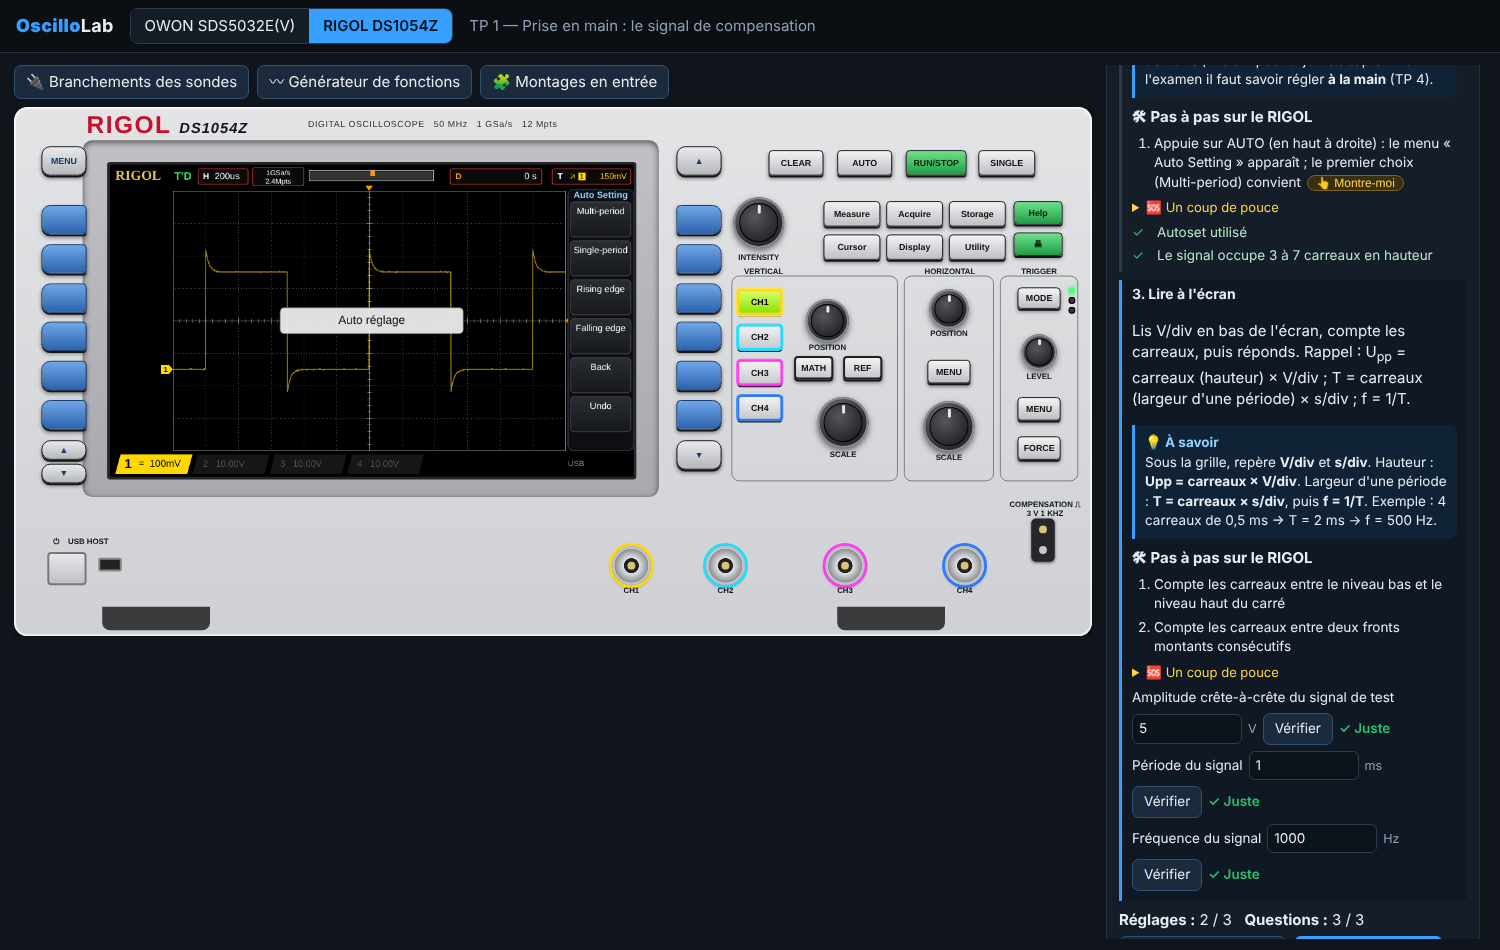
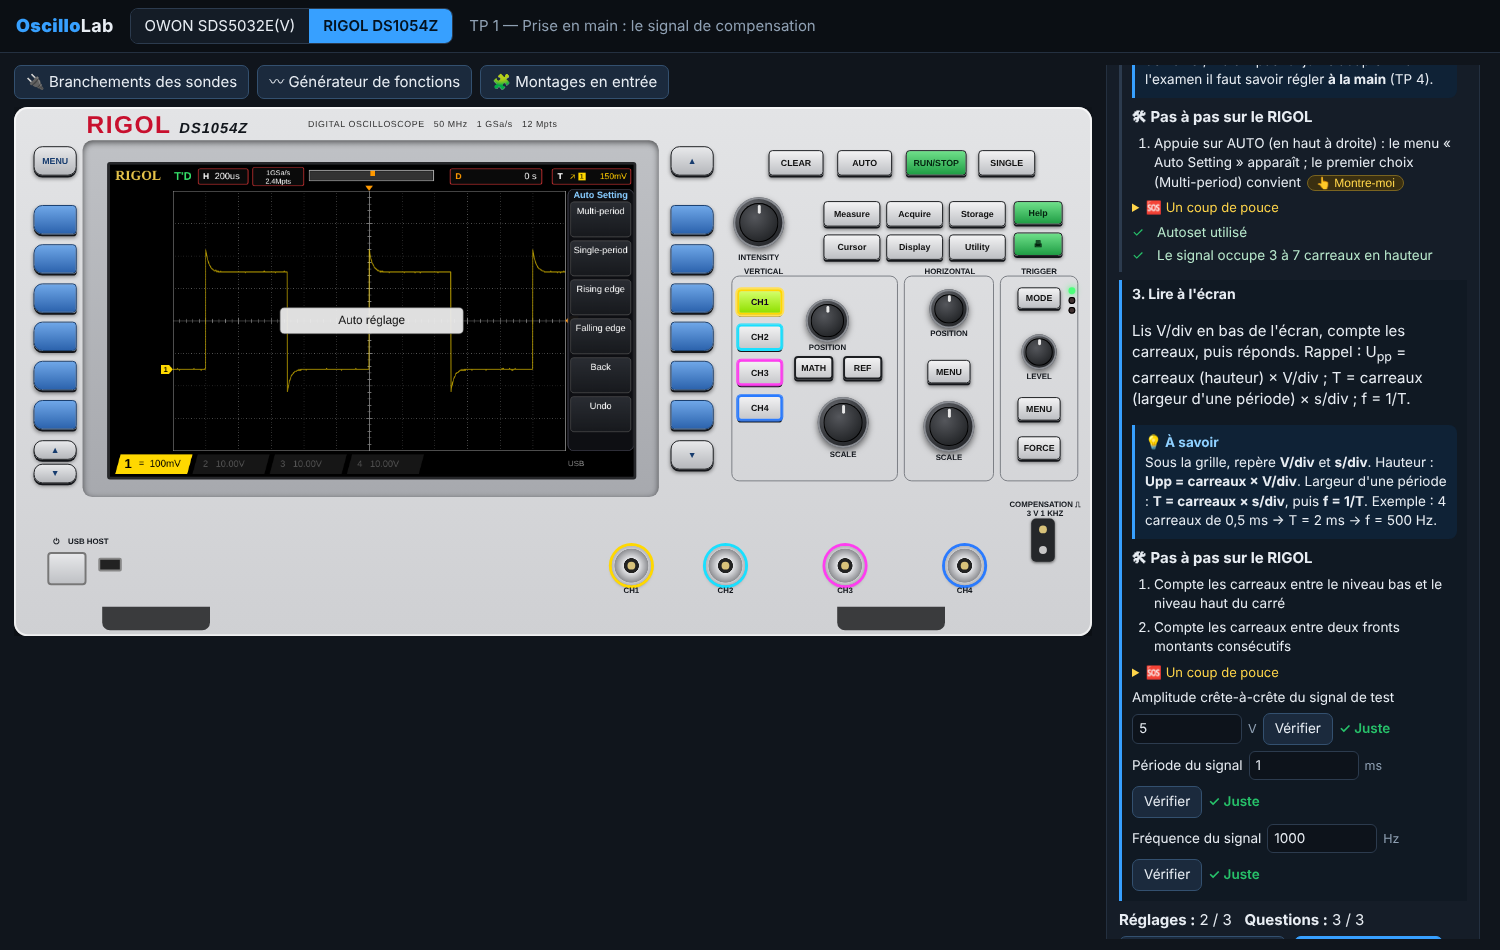
RIGOL : touches de menu dégagées du bord de l'écran, colonnes gauche et droite symétriques
Claude-Session: https://claude.ai/code/session_018Ln2Xo12prChdSPrkdSn9D

diff --git a/dist/oscillolab.html b/dist/oscillolab.html
@@ -1308,17 +1308,17 @@ OL.RigolUI = function (root, S) {
   /* touches programmables */
   const sk = [];
   const mkSoft = (side, i) => {
-    const x = side === 'l' ? 28 : 676, y = 100 + i * 39.75;
-    return OL.Key(box, { x, y, w: 46, h: 30, label: '', cls: 'rkey ' + (side === 'l' ? 'soft' : 'softr'), on: () => (side === 'l' ? pressQM(i) : pressSoft(i)) });
+    const x = side === 'l' ? 20 : 670, y = 100 + i * 39.75;
+    return OL.Key(box, { x, y, w: 44, h: 30, label: '', cls: 'rkey ' + (side === 'l' ? 'soft' : 'softr'), on: () => (side === 'l' ? pressQM(i) : pressSoft(i)) });
   };
   const rs = [], ls = [];
   for (let i = 0; i < 6; i++) { ls.push(mkSoft('l', i)); rs.push(mkSoft('r', i)); }
-  OL.Key(box, { x: 28, y: 40, w: 46, h: 30, label: 'MENU', cls: 'rkey arrow', on: () => { U.qm = U.qm === null ? 0 : (U.qm === 0 ? 1 : null); U.qmPage = 0; } });
-  OL.Key(box, { x: 676, y: 40, w: 46, h: 30, label: '▲', cls: 'rkey arrow', on: () => { U.page = Math.max(0, U.page - 1); } });
-  OL.Key(box, { x: 676, y: 340, w: 46, h: 30, label: '▼', cls: 'rkey arrow', on: () => { U.page = U.page + 1; } });
+  OL.Key(box, { x: 20, y: 40, w: 44, h: 30, label: 'MENU', cls: 'rkey arrow', on: () => { U.qm = U.qm === null ? 0 : (U.qm === 0 ? 1 : null); U.qmPage = 0; } });
+  OL.Key(box, { x: 670, y: 40, w: 44, h: 30, label: '▲', cls: 'rkey arrow', on: () => { U.page = Math.max(0, U.page - 1); } });
+  OL.Key(box, { x: 670, y: 340, w: 44, h: 30, label: '▼', cls: 'rkey arrow', on: () => { U.page = U.page + 1; } });
   const qmN = () => Math.ceil((U.qm === 1 ? OL.RIGOL_V : OL.RIGOL_H).length / 6);
-  OL.Key(box, { x: 28, y: 340, w: 46, h: 20, label: '▲', cls: 'rkey arrow', on: () => { U.qmPage = Math.max(0, (U.qmPage || 0) - 1); } });
-  OL.Key(box, { x: 28, y: 364, w: 46, h: 20, label: '▼', cls: 'rkey arrow', on: () => { U.qmPage = Math.min(qmN() - 1, (U.qmPage || 0) + 1); } });
+  OL.Key(box, { x: 20, y: 340, w: 44, h: 20, label: '▲', cls: 'rkey arrow', on: () => { U.qmPage = Math.max(0, (U.qmPage || 0) - 1); } });
+  OL.Key(box, { x: 20, y: 364, w: 44, h: 20, label: '▼', cls: 'rkey arrow', on: () => { U.qmPage = Math.min(qmN() - 1, (U.qmPage || 0) + 1); } });
 
   const K = (x, y, w, h, label, cls, fn) => OL.Key(box, { x, y, w, h, label, cls: 'rkey ' + cls, on: fn });
   /* rangée du haut */

diff --git a/js/ui_rigol.js b/js/ui_rigol.js
@@ -20,17 +20,17 @@ OL.RigolUI = function (root, S) {
   /* touches programmables */
   const sk = [];
   const mkSoft = (side, i) => {
-    const x = side === 'l' ? 28 : 676, y = 100 + i * 39.75;
-    return OL.Key(box, { x, y, w: 46, h: 30, label: '', cls: 'rkey ' + (side === 'l' ? 'soft' : 'softr'), on: () => (side === 'l' ? pressQM(i) : pressSoft(i)) });
+    const x = side === 'l' ? 20 : 670, y = 100 + i * 39.75;
+    return OL.Key(box, { x, y, w: 44, h: 30, label: '', cls: 'rkey ' + (side === 'l' ? 'soft' : 'softr'), on: () => (side === 'l' ? pressQM(i) : pressSoft(i)) });
   };
   const rs = [], ls = [];
   for (let i = 0; i < 6; i++) { ls.push(mkSoft('l', i)); rs.push(mkSoft('r', i)); }
-  OL.Key(box, { x: 28, y: 40, w: 46, h: 30, label: 'MENU', cls: 'rkey arrow', on: () => { U.qm = U.qm === null ? 0 : (U.qm === 0 ? 1 : null); U.qmPage = 0; } });
-  OL.Key(box, { x: 676, y: 40, w: 46, h: 30, label: '▲', cls: 'rkey arrow', on: () => { U.page = Math.max(0, U.page - 1); } });
-  OL.Key(box, { x: 676, y: 340, w: 46, h: 30, label: '▼', cls: 'rkey arrow', on: () => { U.page = U.page + 1; } });
+  OL.Key(box, { x: 20, y: 40, w: 44, h: 30, label: 'MENU', cls: 'rkey arrow', on: () => { U.qm = U.qm === null ? 0 : (U.qm === 0 ? 1 : null); U.qmPage = 0; } });
+  OL.Key(box, { x: 670, y: 40, w: 44, h: 30, label: '▲', cls: 'rkey arrow', on: () => { U.page = Math.max(0, U.page - 1); } });
+  OL.Key(box, { x: 670, y: 340, w: 44, h: 30, label: '▼', cls: 'rkey arrow', on: () => { U.page = U.page + 1; } });
   const qmN = () => Math.ceil((U.qm === 1 ? OL.RIGOL_V : OL.RIGOL_H).length / 6);
-  OL.Key(box, { x: 28, y: 340, w: 46, h: 20, label: '▲', cls: 'rkey arrow', on: () => { U.qmPage = Math.max(0, (U.qmPage || 0) - 1); } });
-  OL.Key(box, { x: 28, y: 364, w: 46, h: 20, label: '▼', cls: 'rkey arrow', on: () => { U.qmPage = Math.min(qmN() - 1, (U.qmPage || 0) + 1); } });
+  OL.Key(box, { x: 20, y: 340, w: 44, h: 20, label: '▲', cls: 'rkey arrow', on: () => { U.qmPage = Math.max(0, (U.qmPage || 0) - 1); } });
+  OL.Key(box, { x: 20, y: 364, w: 44, h: 20, label: '▼', cls: 'rkey arrow', on: () => { U.qmPage = Math.min(qmN() - 1, (U.qmPage || 0) + 1); } });
 
   const K = (x, y, w, h, label, cls, fn) => OL.Key(box, { x, y, w, h, label, cls: 'rkey ' + cls, on: fn });
   /* rangée du haut */
